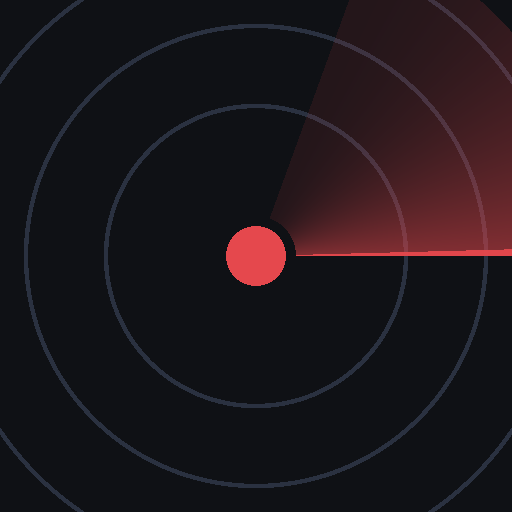
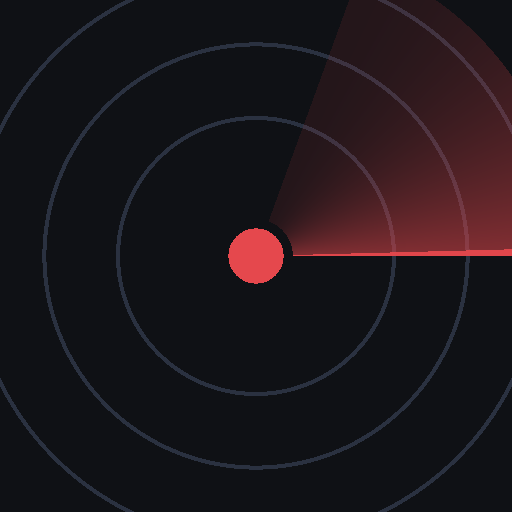
feat(android): 安卓 PWA 安装优化 — maskable 图标、144 图标、应用内安装引导

diff --git a/index.html b/index.html
@@ -8,8 +8,8 @@
 <meta name="mobile-web-app-capable" content="yes">
 <meta name="apple-mobile-web-app-status-bar-style" content="black-translucent">
 <meta name="apple-mobile-web-app-title" content="金融雷达">
-<link rel="manifest" href="manifest.webmanifest?v=3">
-<link rel="apple-touch-icon" href="assets/apple-touch-icon.png">
+<link rel="manifest" href="manifest.webmanifest?v=4">
+<link rel="apple-touch-icon" sizes="180x180" href="assets/apple-touch-icon.png">
 <link rel="icon" href="assets/icon-192.png">
 <title>金融事件雷达</title>
 <style>
@@ -90,6 +90,21 @@
     .ttl{font-size:14.5px}
     main{padding:6px 8px}
   }
+  /* 安卓安装引导：固定在底部，不影响内容流 */
+  .install-bar{position:fixed;left:50%;transform:translateX(-50%);
+    bottom:calc(10px + var(--safe-b));width:calc(100% - 24px);max-width:816px;
+    display:flex;align-items:center;gap:10px;background:var(--panel2);
+    border:1px solid var(--line);border-radius:14px;padding:11px 12px;
+    box-shadow:0 8px 28px rgba(0,0,0,.55);z-index:60}
+  .install-bar[hidden]{display:none}
+  .ib-txt{flex:1;min-width:0;display:flex;flex-direction:column;line-height:1.35}
+  .ib-txt b{font-size:13.5px}
+  .ib-txt span{font-size:11.5px;color:var(--dim)}
+  .ib-go{flex:0 0 auto;border:0;background:var(--l3);color:#fff;font-size:13px;
+    font-weight:500;padding:8px 15px;border-radius:9px;cursor:pointer}
+  .ib-go:active{filter:brightness(.9)}
+  .ib-no{flex:0 0 auto;border:0;background:transparent;color:var(--faint);
+    font-size:14px;cursor:pointer;padding:6px;line-height:1}
 </style>
 </head>
 <body>
@@ -116,6 +131,15 @@
   <span id="stat">—</span>
   <a href="setup.html">推送设置</a>
 </footer>
+
+<div id="installBar" class="install-bar" hidden>
+  <div class="ib-txt">
+    <b>装到桌面</b>
+    <span>像 App 一样全屏打开，不用每次输网址</span>
+  </div>
+  <button id="ibGo" class="ib-go">安装</button>
+  <button id="ibNo" class="ib-no" aria-label="关闭">✕</button>
+</div>
 
 <script>
 const TL={official:"官方",exchange:"交易所",authority:"权威媒体",media:"媒体",unverified:"未证实"};
@@ -276,6 +300,39 @@ window.addEventListener("beforeunload",()=>{
 if("serviceWorker" in navigator && location.protocol==="https:"){
   navigator.serviceWorker.register("sw.js").catch(()=>{});
 }
+
+/* ---------- 安卓「装到桌面」引导 ----------
+   安卓 Chrome 支持 beforeinstallprompt，此时可以主动弹系统安装框，
+   比让用户去菜单里找「添加到主屏幕」成功率高得多。
+   已安装（standalone）或用户 30 天内关过就不再打扰。 */
+(function(){
+  const bar=$("installBar"), KEY="ibDismissedAt";
+  const standalone=matchMedia("(display-mode: standalone)").matches
+    || navigator.standalone===true;
+  let deferred=null;
+  const dismiss=()=>{ try{localStorage.setItem(KEY,Date.now())}catch(e){} bar.hidden=true; };
+
+  window.addEventListener("beforeinstallprompt",e=>{
+    e.preventDefault();
+    deferred=e;
+    let last=0; try{last=Number(localStorage.getItem(KEY)||0)}catch(err){}
+    if(standalone || Date.now()-last < 30*864e5) return;
+    bar.hidden=false;
+  });
+
+  $("ibGo").addEventListener("click",async()=>{
+    if(!deferred){ dismiss(); return; }
+    deferred.prompt();
+    try{ await deferred.userChoice; }catch(e){}
+    deferred=null; bar.hidden=true;
+  });
+  $("ibNo").addEventListener("click",dismiss);
+  window.addEventListener("appinstalled",()=>{ bar.hidden=true; deferred=null; });
+
+  // 主屏快捷方式「刷新看板」带 ?action=refresh 进来时立即拉一次
+  if(new URLSearchParams(location.search).get("action")==="refresh") load(true);
+})();
+
 load();
 </script>
 </body>

diff --git a/sw.js b/sw.js
@@ -3,9 +3,11 @@
    GitHub Pages 的 /<仓库名>/ 子路径下都能用。
    注意：局域网 http://192.168.x.x 属于非安全上下文，浏览器不会注册 SW；
    此时页面照常工作，只是没有离线能力。部署到 https 后自动生效。 */
-const SHELL = "radar-shell-v5";
+const SHELL = "radar-shell-v6";
 const ASSETS = ["./", "./setup.html", "./manifest.webmanifest",
-                "./assets/icon-192.png", "./assets/icon-512.png"];
+                "./assets/icon-144.png", "./assets/icon-192.png",
+                "./assets/icon-512.png", "./assets/icon-maskable-512.png",
+                "./assets/apple-touch-icon.png"];
 
 self.addEventListener("install", (e) => {
   e.waitUntil(caches.open(SHELL).then((c) => c.addAll(ASSETS)).then(() => self.skipWaiting()));

diff --git a/tools/make_icons.py b/tools/make_icons.py
@@ -21,9 +21,12 @@ def blend(base, top, alpha):
     return tuple(int(b + (t - b) * alpha) for b, t in zip(base, top))
 
 
-def pixel(x, y, size):
+def pixel(x, y, size, content=1.0):
+    """content：图案占画布的比例。安卓 maskable 图标必须把内容缩到中心，
+    否则启动器裁成圆形时外圈会被切掉（这是安卓上图标变形的根因）。"""
     c = size / 2.0
-    dx, dy = x + 0.5 - c, y + 0.5 - c
+    # 除以 content 等于把图案整体缩小，四周自然留出背景色安全区
+    dx, dy = (x + 0.5 - c) / content, (y + 0.5 - c) / content
     r = math.hypot(dx, dy)
     scale = size / 512.0
 
@@ -54,12 +57,12 @@ def pixel(x, y, size):
     return col
 
 
-def write_png(path, size):
+def write_png(path, size, content=1.0):
     rows = []
     for y in range(size):
         row = bytearray([0])                          # filter type 0
         for x in range(size):
-            row += bytes(pixel(x, y, size)) + b"\xff"
+            row += bytes(pixel(x, y, size, content)) + b"\xff"
         rows.append(bytes(row))
     raw = b"".join(rows)
 
@@ -74,12 +77,25 @@ def write_png(path, size):
     path.write_bytes(png)
 
 
+# 常规图标留 8% 边：多数安卓启动器会加圆角/圆形遮罩，铺满会被切掉
+# maskable 缩到 60%：安卓安全区是中心直径 66% 的圆，超出 80% 的部分会被裁掉
+ANY = 0.92
+MASKABLE = 0.60
+
+
 def main():
     OUT.mkdir(exist_ok=True)
-    for size, name in ((512, "icon-512.png"), (192, "icon-192.png"),
-                       (180, "apple-touch-icon.png")):
-        write_png(OUT / name, size)
-        print(f"  ✓ assets/{name}  {size}x{size}")
+    jobs = [
+        (512, "icon-512.png", ANY),
+        (192, "icon-192.png", ANY),
+        (144, "icon-144.png", ANY),
+        (180, "apple-touch-icon.png", ANY),
+        (512, "icon-maskable-512.png", MASKABLE),
+    ]
+    for size, name, content in jobs:
+        write_png(OUT / name, size, content)
+        tag = "maskable" if content < 1.0 and "maskable" in name else "any"
+        print(f"  ✓ assets/{name}  {size}x{size}  content={content} ({tag})")
     return 0
 
 
